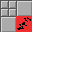
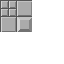
big update!
pls pay $6.99 2 see da update

(new sprites)

Changed region(s): [[0.25, 0.25, 0.5, 0.5]]

diff --git a/core/src/com/core/Main.java b/core/src/com/core/Main.java
@@ -1,5 +1,7 @@
 package com.core;
 
+import java.util.ArrayList;
+
 import com.badlogic.gdx.ApplicationAdapter;
 import com.badlogic.gdx.Files;
 import com.badlogic.gdx.Gdx;
@@ -20,6 +22,10 @@ import com.badlogic.gdx.maps.tiled.TmxMapLoader;
 import com.badlogic.gdx.maps.tiled.renderers.OrthogonalTiledMapRenderer;
 import com.core.mechanics.classes.Marksman;
 import com.core.mechanics.player.Player;
+import com.core.mobs.Cadet;
+import com.core.mobs.Mobs;
+import com.core.mobs.Slime;
+import com.core.mobs.Spaceman;
 import com.core.weapons.Weapons;
 
 public class Main extends ApplicationAdapter implements InputProcessor {
@@ -30,6 +36,11 @@ public class Main extends ApplicationAdapter implements InputProcessor {
     Player p;
     Weapons wp;
     Weapons wp2;
+    Spaceman s;
+    Slime sl;
+    Cadet c;
+    Weapons cr8;
+    ArrayList<Mobs> hostiles;
     private SpriteBatch batch;
     float w;
     float h;
@@ -39,11 +50,25 @@ public class Main extends ApplicationAdapter implements InputProcessor {
     	Gdx.graphics.setWindowedMode(1024, 768);
     	w = Gdx.graphics.getWidth();
     	h = Gdx.graphics.getHeight();
-        p = new Marksman();
-        wp = new Weapons("boltactionrifle", 10, 20);
-        wp2 = new Weapons("combayshotgundivertram16by16", 10, 20);
+       	p = new Marksman();
+        c = new Cadet();
+        s = new Spaceman();
+        sl = new Slime();
+        
+        
+    	hostiles = new ArrayList<Mobs>();
+    	hostiles.add(c);
+    	hostiles.add(s);
+    	hostiles.add(sl);
+ 
+        wp = new Weapons("grey ar", 10, 20);
+        wp2 = new Weapons("grey pistol", 10, 20);
+        
+        cr8 = new Weapons("crate", 10, 20);
+        		
         wp.setX(160);
         wp.setY(160);
+        cr8.setY(160);
         batch = new SpriteBatch();
         camera = new OrthographicCamera();
         camera.setToOrtho(false,w,h);
@@ -62,6 +87,7 @@ public class Main extends ApplicationAdapter implements InputProcessor {
         Gdx.gl.glClearColor(0, 0, 0, 1);
         Gdx.gl.glBlendFunc(GL20.GL_SRC_ALPHA, GL20.GL_ONE_MINUS_SRC_ALPHA);
         Gdx.gl.glClear(GL20.GL_COLOR_BUFFER_BIT);
+        
         camera.position.set(p.getX(),p.getY(), 0);
         if((camera.position.x-(camera.viewportWidth/2))<0)
         	camera.position.x = camera.viewportWidth/2;
@@ -77,6 +103,12 @@ public class Main extends ApplicationAdapter implements InputProcessor {
         tiledMapRenderer.addSprite(p.sprite());
         tiledMapRenderer.addSprite(wp.sprite());
         tiledMapRenderer.addSprite(wp2.sprite());
+        tiledMapRenderer.addSprite(cr8.sprite());
+        for(int i = 0; i<hostiles.size(); i++)
+        {
+        	hostiles.get(i).move();
+        	tiledMapRenderer.addSprite(hostiles.get(i).sprite());
+        }
         tiledMapRenderer.render();
     }
 

diff --git a/core/src/com/core/mobs/Mobs.java b/core/src/com/core/mobs/Mobs.java
@@ -2,6 +2,9 @@ package com.core.mobs;
 
 import java.util.Random;
 
+import com.badlogic.gdx.graphics.Texture;
+import com.badlogic.gdx.graphics.g2d.Sprite;
+
 public class Mobs {
 
 	int[] mobHealth = { 50, 30, 125, 225, 75, 575 };
@@ -11,9 +14,13 @@ public class Mobs {
 	int[] mobExpRange = { 5, 6, 9, 11, 44, 465 };
 	String[] mobNames = { "Slime", "Spaceman", "Alien Cadet", "Blockbot", "Alien", "Goo Warlord" };
 	
+protected int timer;
+protected String sprite;
+
 	Random rand = new Random();
 	
 	Mobs(int type) {
+		timer = 0;
 		experience = mobBaseExp[type]+rand.nextInt(mobExpRange[type])+1;
 	}
 	
@@ -60,20 +67,39 @@ public class Mobs {
 		return mobNames[type];
 	}
 
-	public void setX(float newX){
+	public Sprite sprite() {
+		Sprite s = new Sprite(new Texture(sprite));
+		s.setPosition(x, y);
+		return s;
+	}
+	public void setX(float newX)
+	{
 		x = newX;
 	}
-	
-	public float getX(){
+	public float getX()
+	{
 		return x;
 	}
-	
-	public void setY(float newY){
+	public void setY(float newY)
+	{
 		y = newY;
 	}
-	
-	public float getY() {
+	public float getY()
+	{
 		return y;
+	}
+	public void move() {
+		timer++;
+		if(timer%60==0)
+		{
+			Random rand = new Random();
+			x += (rand.nextInt(3)-1)*16;
+			y += (rand.nextInt(3)-1)*16;
+			if(y<0)
+				y = 0;
+			if(x<0)
+				x = 0;
+		}
 	}
 	
 }

diff --git a/core/src/com/core/mobs/Spaceman.java b/core/src/com/core/mobs/Spaceman.java
@@ -1,0 +1,9 @@
+package com.core.mobs;
+
+public class Spaceman extends Mobs{
+	public Spaceman() {
+		super(1);
+		sprite = "spaceman spiff.png";
+	}
+
+}

diff --git a/core/src/com/core/mobs/Cadet.java b/core/src/com/core/mobs/Cadet.java
@@ -1,0 +1,9 @@
+package com.core.mobs;
+
+public class Cadet extends Mobs{
+	public Cadet() {
+		super(2);
+		sprite = "alien cadet.png";
+	}
+
+}

diff --git a/core/src/com/core/mobs/Slime.java b/core/src/com/core/mobs/Slime.java
@@ -1,0 +1,8 @@
+package com.core.mobs;
+
+public class Slime extends Mobs{
+	public Slime() {
+		super(0);
+		sprite = "slimemob.png";
+	}
+}
